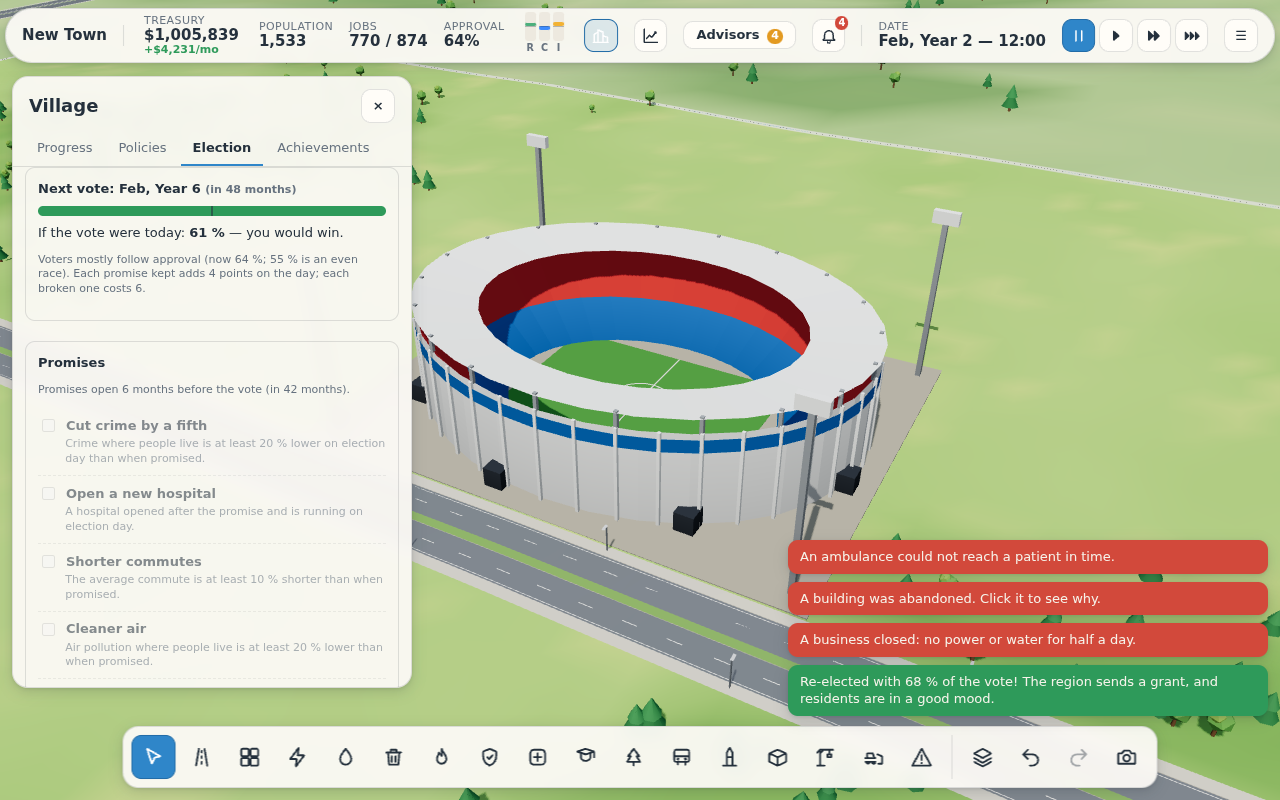
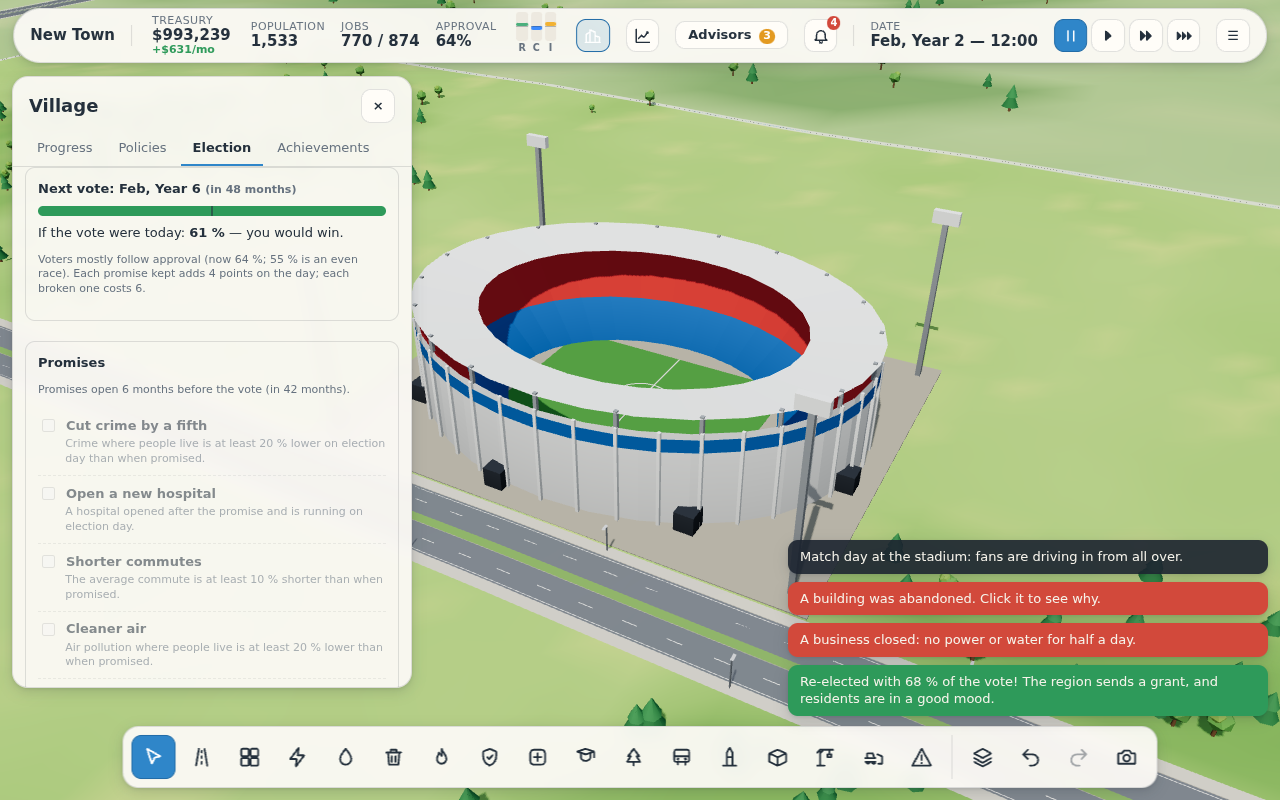
M17: project upkeep as the lasting sink; careful mayor fills any map
Projects cost $6k-$12k a month to run once open, about what a 50k city
nets at 6 % taxes. The balance tool's careful mayor reserves a quarter
for landmarks and projects at 8,000 residents, skips a goal it can't
place for six months instead of stalling, builds only on roads joined to
the highway (seed s1 had pumps on a cut-off stretch), uses map rows
farther from the highway, cuts taxes to 2 % once its goals are met, and
counts every project stage it pays for. scripts/dev/moneychart.mjs
charts the treasury, spending on goals and population.

Claude-Session: https://claude.ai/code/session_01XW8DbmKrRef35JRd9CiaPb

diff --git a/scripts/balance.ts b/scripts/balance.ts
@@ -65,7 +65,11 @@ const MONTHS_PER_YEAR = 12;
 const DW = 480;
 const ROW = 380;
 const HALF = 160;
-/** Nearest the highway first (the original 15), then the far bank beyond the river. */
+/**
+ * Nearest the highway first (the original 15), then the far bank beyond the river, then rows
+ * farther up and down the map for highways that enter near an edge (`nextSlot` skips any that
+ * don't fit on the map).
+ */
 const DISTRICT_ORDER: [number, number][] = [
   [0, 0],
   [1, 0],
@@ -87,6 +91,7 @@ const DISTRICT_ORDER: [number, number][] = [
   [3, 1],
   [3, -2],
   [3, 2],
+  ...[-3, 3, -4, 4].flatMap((j) => [0, 1, 2, 3].map((i): [number, number] => [i, j])),
 ];
 
 /**
@@ -192,6 +197,10 @@ class Player {
    * side streets or zoning: room for landmarks and big projects.
    */
   buildDistrict(quarter = false): boolean {
+    // The careful mayor keeps the first slot after 8,000 residents as a quarter for landmarks and
+    // projects, before the map fills up.
+    if (this.strategy === 'careful' && this.sim.reached(8_000) && !this.districts.some((d) => d.quarter))
+      quarter = true;
     const next = this.nextSlot();
     if (!next || this.sim.state.treasury < this.districtCost() + 2_000) return false;
     while (DISTRICT_ORDER[this.districts.length] !== next) {
@@ -208,7 +217,16 @@ class Player {
       const zNear = this.c.z + (j > 0 ? j - 1 : j + 1) * ROW;
       segs.push(...this.road('avenue', { x: x0 + 12, z: zNear }, { x: x0 + 12, z }));
     }
+    // Roads that didn't join the network (a failed crossing) get no zoning or buildings.
+    const cutOff = () => {
+      if (segs.some((id) => this.sim.state.net.segments.has(id) && this.sim.isSegmentConnected(id)))
+        return false;
+      this.districts.push({ i, j, segs, dead: true });
+      this.log.push(`m${this.month()}: district ${i},${j} cut off`);
+      return true;
+    };
     if (quarter) {
+      if (cutOff()) return false;
       this.districts.push({ i, j, segs, quarter: true });
       this.log.push(`m${this.month()}: quarter ${i},${j}`);
       return true;
@@ -225,6 +243,7 @@ class Player {
           if (!d.quarter) segs.push(...this.road('street', { x, z: a }, { x, z: b }));
         }
     }
+    if (cutOff()) return false;
     const zone = (letter: 'R' | 'C' | 'I', a: Vec2, b: Vec2, radius: number) =>
       this.sim.dispatch({ type: 'zone', zone: letter, area: { kind: 'brush', points: [a, b], radius } });
     // The careful mayor zones shops only while shops are wanted; otherwise homes face the avenue.
@@ -273,7 +292,10 @@ class Player {
     const d = CIVIC.get(def);
     if (!d || !this.sim.isUnlocked(d.unlockPopulation)) return false;
     if (this.sim.state.treasury < d.cost + 1_000) return false;
-    const segs = [...this.sim.state.net.segments.values()].filter((s) => s.type !== 'highway');
+    // Only roads joined to the highway: a building on a cut-off piece of road serves nobody.
+    const segs = [...this.sim.state.net.segments.values()].filter(
+      (s) => s.type !== 'highway' && this.sim.isSegmentConnected(s.id),
+    );
     const mid = (id: number) => {
       const cv = this.sim.net.curve(id);
       return cv.pointAt(cv.length / 2);
@@ -478,12 +500,12 @@ class Player {
       else if (s.netMonthly > 0 && s.treasury > 60_000 && rate > 9) this.setTaxes(rate - 1);
       // Comfortably off: trade money for happier residents and more demand.
       else if (s.netMonthly > 0 && s.treasury > 250_000 && rate > 6) this.setTaxes(rate - 1);
-      // Goals met and money piling up: hand it back, a point every six months, down to 3 %.
+      // Goals met and money piling up: hand it back, a point every six months, down to 2 %.
       else if (
         s.netMonthly > 0 &&
         s.treasury > 1_500_000 &&
         this.goalsDone() &&
-        rate > 3 &&
+        rate > 2 &&
         this.sim.state.tick - this.lastTaxCut > TICKS_PER_MONTH * 6
       ) {
         this.setTaxes(rate - 1);
@@ -569,7 +591,9 @@ class Player {
 
   /** Every goal the city has reached is met: nothing left to save for until the next milestone. */
   goalsDone(): boolean {
-    return GOALS.every((g) => this.goalsMet.has(g.def) || !this.sim.reached(g.at));
+    return GOALS.every(
+      (g) => this.goalsMet.has(g.def) || !this.sim.reached(g.at) || this.goalTried.has(g.def),
+    );
   }
 
   private lastTaxCut = -1e9;
@@ -596,16 +620,22 @@ class Player {
         continue;
       }
       if (d.project && projectBlocked(this.sim, d)) continue;
+      // Nowhere to put it last time: try the others, and this one again in six months.
+      if (s.tick - (this.goalTried.get(g.def) ?? -1e9) < TICKS_PER_MONTH * 6) continue;
       const price = d.project ? projectCost(d).total : d.cost;
       if (s.treasury < price + this.reserve()) return;
       const before = s.treasury;
       if (this.placeGoal(g.def)) {
         this.goalsMet.set(g.def, this.month());
-        this.goalSpend += before - s.treasury;
+        // Projects' stages are counted from the ledger as they're paid (see sample()).
+        if (!d.project) this.goalSpend += before - s.treasury;
+        return;
       }
-      return;
+      this.goalTried.set(g.def, s.tick);
     }
   }
+
+  private goalTried = new Map<string, number>();
 
   /** A goal's building: along a quarter's avenue, else any free roadside, else a new quarter. */
   placeGoal(def: string): boolean {
@@ -613,8 +643,8 @@ class Player {
     const tryQuarters = () => {
       for (const q of this.districts.filter((x) => x.quarter))
         for (const id of q.segs) {
-          if (!this.sim.state.net.segments.has(id) || this.sim.state.net.segments.get(id)!.type !== 'avenue')
-            continue;
+          const sg = this.sim.state.net.segments.get(id);
+          if (!sg || sg.type !== 'avenue' || !this.sim.isSegmentConnected(id)) continue;
           const len = this.sim.net.curve(id).length;
           for (let at = d.w / 2 + 12; at < len - d.w / 2 - 12; at += 10)
             for (const side of [1, -1] as const) {
@@ -653,7 +683,13 @@ class Player {
     return this.sim.state.election.promises.some((p) => p.id === 'taxes');
   }
 
+  private ledgerSeen = 0;
+
   sample(): Sample {
+    // Every project stage paid in the months closed since the last sample.
+    const h = this.sim.state.economy.history;
+    for (; this.ledgerSeen < h.length; this.ledgerSeen++)
+      this.goalSpend -= h[this.ledgerSeen]!.lines.projects ?? 0;
     const s = this.stats();
     return {
       month: this.month(),

diff --git a/src/data/projects.ts b/src/data/projects.ts
@@ -99,7 +99,7 @@ export const PROJECT_DEFS: ProjectDef[] = [
     w: 120,
     d: 96,
     cost: 0,
-    upkeep: 6_000,
+    upkeep: 10_000,
     blurb: 'A 30,000-seat bowl for the home team. Match days fill the stands and the roads around it.',
     unlockPopulation: 20_000,
     landValue: { radius: 260, value: 0.06 },
@@ -124,7 +124,7 @@ export const PROJECT_DEFS: ProjectDef[] = [
     w: 112,
     d: 112,
     cost: 0,
-    upkeep: 8_000,
+    upkeep: 12_000,
     blurb:
       'A launch pad, assembly hall and tower for the technology city: satellites built here fly from here.',
     unlockPopulation: 40_000,
@@ -154,7 +154,7 @@ export const PROJECT_DEFS: ProjectDef[] = [
     w: 128,
     d: 128,
     cost: 0,
-    upkeep: 4_000,
+    upkeep: 6_000,
     blurb:
       'A field of mirrors aimed at a tall receiver tower: clean power for a whole city, day and night from stored heat.',
     unlockPopulation: 20_000,
@@ -182,7 +182,7 @@ export const PROJECT_DEFS: ProjectDef[] = [
     w: 144,
     d: 112,
     cost: 0,
-    upkeep: 6_500,
+    upkeep: 10_000,
     blurb:
       'A world fair of gardens and pavilions; when the fair closes, the grounds stay a park the region visits.',
     unlockPopulation: 40_000,
@@ -212,7 +212,7 @@ export const PROJECT_DEFS: ProjectDef[] = [
     w: 120,
     d: 80,
     cost: 0,
-    upkeep: 5_000,
+    upkeep: 8_000,
     blurb:
       'Exhibition halls and an auditorium under a long wave roof: trade fairs bring business visitors all year.',
     unlockPopulation: 20_000,

diff --git a/PROGRESS.md b/PROGRESS.md
@@ -102,16 +102,15 @@ e2e specs pass (M16's rerun after the full run, see DECISIONS), 174 unit tests.
 ## Known issues
 - Photo mode's depth of field is a screen-space gather: fine for stills, but thin bright things right against a blurred background can show a faint halo, and saving at 2× takes up to a minute on this VM's software renderer (a fraction of a second on a GPU).
 - The follow camera loses a car when it parks (the panel says so); buses loop for good.
-- Mature cities run a big surplus (≈ +$35k/month at 18k residents with 6 % taxes); intended as money for landmarks and big projects.
 - Homes without power or water still empty after about two days; the balance runs show a careful player never hits this, so no grace period was added.
 - Visible cars and walkers follow trip samples from the last assignment round, so for up to two game hours after a road closes some still drive along it; commuters, services and utilities reroute at once.
 - Buildings along a road closed for repairs lose power and water until it reopens (lines run under the roads); with 6–24 h repairs this rarely empties them, but a big quake still costs a town a lot.
 - Visible cars don't queue or yield at junctions; they overlap when paths cross. Speeds do follow congestion.
 - Bus riders' door-to-door time includes walking and waiting, so a bus line mainly helps by taking cars off jammed roads (≈10–20 % less traffic in the test town), not by being faster than driving.
 - Towns without services stagnate and slowly lose residents (the neglectful balance run); that's intended, but it could be clearer to a new player why.
-- Commercial demand runs slightly negative once a town has zoned a strip of shops (the careful balance player's commercial zones stay part-empty); fine for play, worth a second look.
+- Commercial demand runs negative once a town has zoned a strip of shops in every district (shoppers vs. shops); the careful balance mayor now zones shops only while they're wanted. Big cities run short of jobs rather than homes: industry demand stays high once the map is full.
 - Visitors (M10) are counted, spend money and shop, but don't drive through the traffic model yet.
-- Growth to 100k residents is exercised by the large-city benchmark (a sandbox grid); a scripted careful player tops out around 18k because its district plan runs out of land.
+- Growth to 100k residents is exercised by the large-city benchmark (a sandbox grid); the scripted careful mayor fills the river map at about 67k (M17).
 - Tree count is high in forests (~25k in-map); LOD switches to low-poly beyond 750 m.
 - Cutting faces and embankments read softly: the terrain is 8 m height samples, so a 1:1 cut face shows as a brown bank over one cell rather than a crisp edge.
 - Roads can't join or cross a viaduct mid-span (no grade separation until M19); the planner says to meet it where it's back on the ground.

diff --git a/docs/DECISIONS.md b/docs/DECISIONS.md
@@ -264,3 +264,6 @@ One line each: what was decided and why. Newest at the bottom of each section.
 - A win brings a grant of $4 per resident and +3 points of approval for a year; a loss keeps the mayor in office (the game never ends) but for a year the council refuses tax rises and new loans, and the refusal says until when. Rates can still come down, and loans can still be repaid.
 - Elections are off in sandbox cities, with a new-city option and a setting. Switching them off mid-game drops the coming vote and its promises; a term already in force runs its course. Switching back on (and older saves, save v15) schedules the next four-year mark with a full campaign ahead of it.
 - The campaign opens with a notice; the city panel's Election tab (between Policies and Achievements, hidden where there are no elections) shows the countdown, the projected share, the promises and the last result. The top bar's city button gets an amber dot during a campaign.
+- The late-game retune only touches what unlocks at 20,000 residents or later: the five projects cost $1.2M–$2.0M (were $450k–$700k in the first draft) with $6k–$12k a month upkeep once open, and the conservatory, sky needle and grand arch (40k, 70k, 100k) cost $350k, $700k and $1.2M with $1.6k–$3.6k upkeep. Their running costs are the lasting sink: together they come to about what a 50k city nets at 6 % taxes, so a city that builds everything runs close to even and has the tax rate as its lever. Nothing below 20k changed, so the early and mid game are exactly as before (the balance runs' first four years are unchanged).
+- The helio array costs more to run than a nuclear plant for less power: it's a prestige project that arrives at 20k (nuclear at 40k) with no meltdown risk or waste, not the cheapest power.
+- The balance tool's careful mayor (not the game) was extended to plan the whole map: district slots on both banks and farther up and down the map, river crossings split where a single bridge has no land for its ramps, a quarter reserved at 8,000 residents for landmarks and projects, shops zoned only while wanted, industry on the south side and on empty home lots when jobs are short (big cities run out of jobs before homes), side streets widened into avenues once high-rises unlock, one police and fire station per 5,000 residents, spending goals in order with a reserve of three months' running costs, promises it can keep (no tax rises, plus jobs or a new hospital), and, once its goals are met, taxes cut a point every six months down to 2 %. It only builds on roads joined to the highway: on seed s1 it had put pumps on a cut-off stretch, and 180 homes stood abandoned without water while the city's total supply looked ample.
